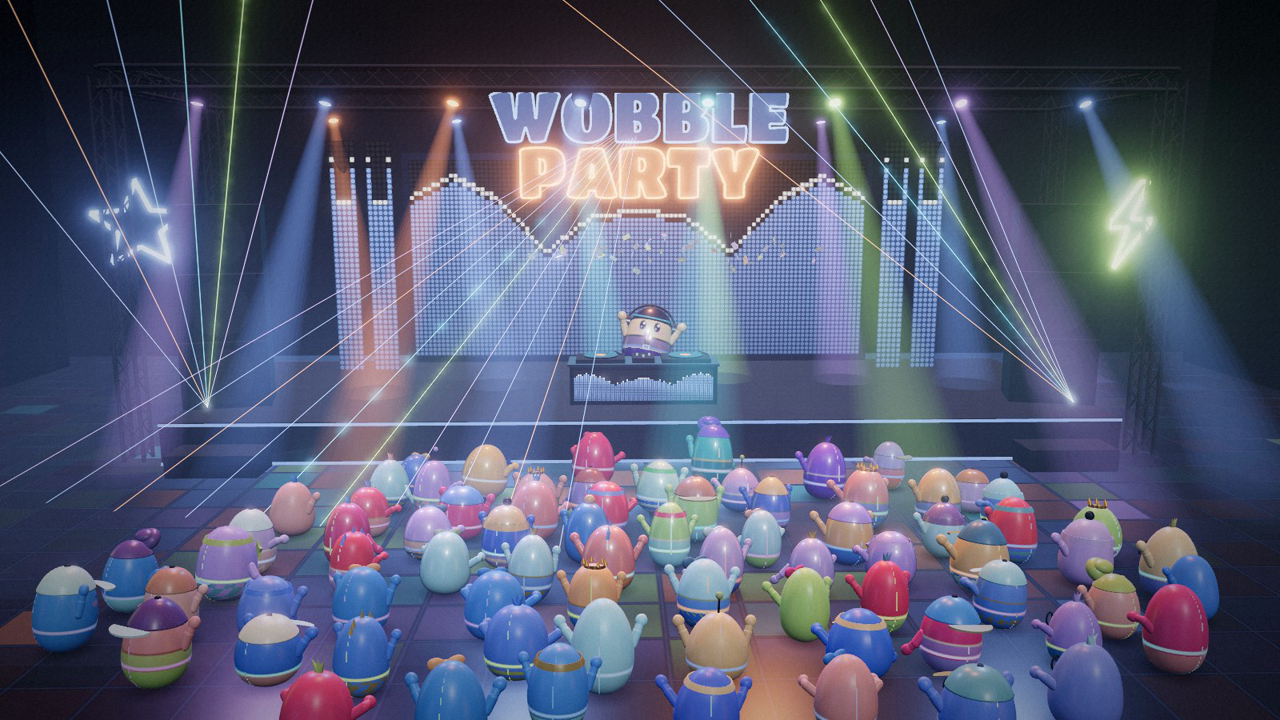
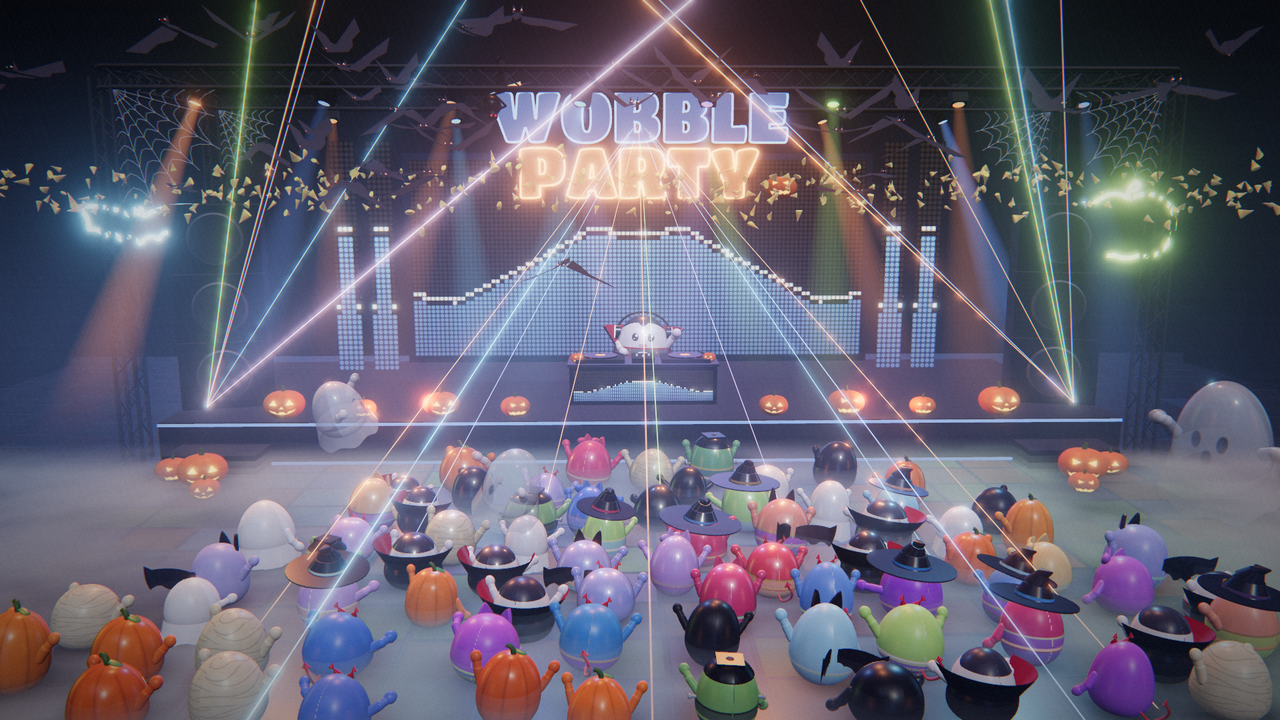
Release 0.2.0: spooky store preview, README skins and tuning keys
The store preview becomes the spooky skin for the Halloween season; the
classic preview moves to docs/img/classic.png (swap it back in November).
README gains the k (tuning dials) key and both skin looks.

diff --git a/README.md b/README.md
@@ -75,6 +75,7 @@ delete that folder to remove those too.
 | `1`–`9` | hold a shot (wide, DJ, over-the-DJ, crowd dolly, hero close-up, crane, overhead, orbit, stage side) · `0` back to auto |
 | `t` / `T` | preview the next installed theme / back to the current one |
 | `s` | skin: auto · classic · spooky (remembered) |
+| `k` | tuning dials: how hard the crowd dances, hops, shimmies and shows off (kept in the URL) |
 | `f` | fullscreen |
 | `d` | signal debugger (what the party is hearing) |
 | `h` | help · `q` quit |
@@ -117,6 +118,12 @@ Frankenstein's monsters, witches, devils, cats, bats and a vampire DJ. Lanterns 
 rolls over the floor, a spider lets itself down on builds, ghosts drift overhead, and drops set off
 lightning, a colony of bats and candy corn. The LED wall shows a moonlit graveyard and eyes in the
 dark, and now and then the whole floor breaks into a zombie shuffle (more of it for a Halloween song).
+
+![The spooky skin](docs/img/spooky-crowd.jpg)
+
+The classic look, the rest of the year:
+
+![Wobble Party, classic skin](docs/img/classic.png)
 
 ## Develop
 
